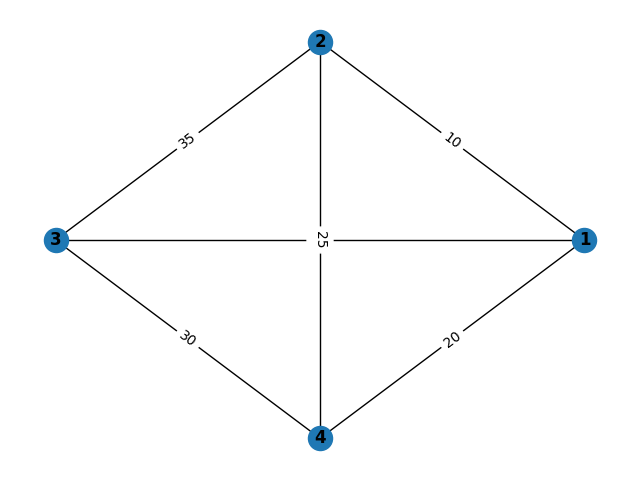
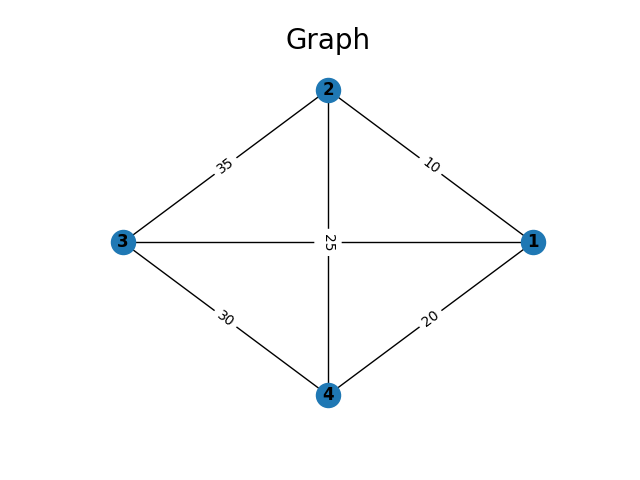
Updated README and included images.

diff --git a/graph.py b/graph.py
@@ -74,6 +74,8 @@ class UndirectedGraph:
         return distance_matrix
     
     def plot_graph(self, filename = "images/graph_plot.png"):
+        plt.title("Graph", fontsize = 20)
+
         pos = nx.circular_layout(self._graph)
         nx.draw(self._graph, pos = pos, with_labels = True, font_weight = "bold")
 
@@ -103,6 +105,7 @@ class UndirectedGraph:
         cycle.plot(filename)
 
     def plot_overlay_TSP(self, solver, filename = "images/overlay_tsp_cycle.png"):
+        plt.title("Graph and TSP Solution", fontsize = 20)
         labels = nx.get_edge_attributes(self._graph, "weight")
 
         _, _index_path, node_path = solver.solve()

diff --git a/main.py b/main.py
@@ -15,7 +15,8 @@ if __name__ == "__main__":
      
      solver = TSPSolver(graph)
      cost, _, path = solver.solve()
+     
      print("Minimum-cost tour:", path)
      print("Cost:", cost)
-     
+
      graph.plot_overlay_TSP(solver)

diff --git a/README.md b/README.md
@@ -1,2 +1,34 @@
 # tsp-dp
 Basic dynamic programming solver for the Travelling Salesman Problem.
+
+#### Usage
+<img src="images/graph_plot.png" alt="Graph plot" width="50%">
+
+Create an undirected graph with distances as weights between vertices.
+```py
+graph = UndirectedGraph()
+graph.add_nodes(
+    ["1", "2", "3", "4"]
+)
+
+graph.add_edges(
+    [
+        ("1", "4", 20), ("1", "3", 15), ("4", "3", 30), ("2", "3", 35), ("1", "2", 10), ("2", "4", 25)
+    ]
+)
+```
+<img src="images/overlay_tsp_cycle.png" alt="TSP Cycle" width="50%">
+
+Use `TSPSolver` to calculate and visualize minimum-cost tour.
+```py
+solver = TSPSolver(graph)
+cost, _, path = solver.solve()
+
+print("Minimum-cost tour:", path) 
+print("Cost:", cost)
+
+# Minimum-cost tour: ['1', '2', '4', '3', '1']
+# Cost: 80.0
+
+graph.plot_overlay_TSP(solver)
+```
